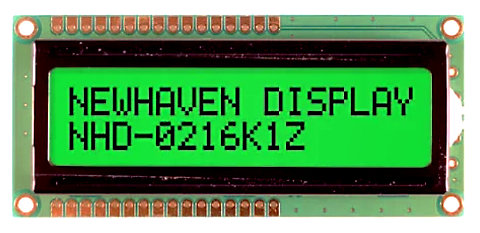
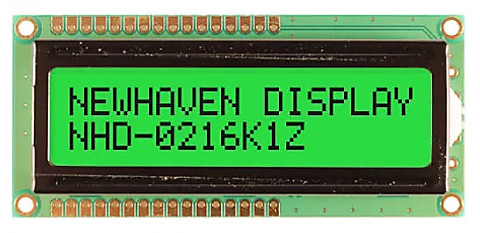
Added Needed NuGets and improved picture.

diff --git a/software/tinyclr/tutorials/displays.md b/software/tinyclr/tutorials/displays.md
@@ -24,6 +24,9 @@ TinyCLR also provides low level display access as part of the `GHIElectronics.Ti
 
 The following example is written for the SC20260D Dev Board with the 4.3" display. It will paint the screen as shown in the picture beneath the code. Note that low level display access requires that you use the data format required by your display as configured. The SC20260D Dev Board used in this example expects each pixel to have 16 bits (two bytes per pixel) of color information in RGB565 format.
 
+> [!Note]
+> Needed Nugets: GHIElectronics.TinyCLR.Core, GHIElectronics.TinyCLR.Devices.Display, GHIElectronics.TinyCLR.Devices.Gpio, GHIElectronics.TinyCLR.Devices.I2c, GHIElectronics.TinyCLR.Devices.Spi, GHIElectronics.TinyCLR.Native, and GHIElectronics.TinyCLR.Pins.
+
 ```cs
 using GHIElectronics.TinyCLR.Devices.Display;
 using GHIElectronics.TinyCLR.Devices.Gpio;
